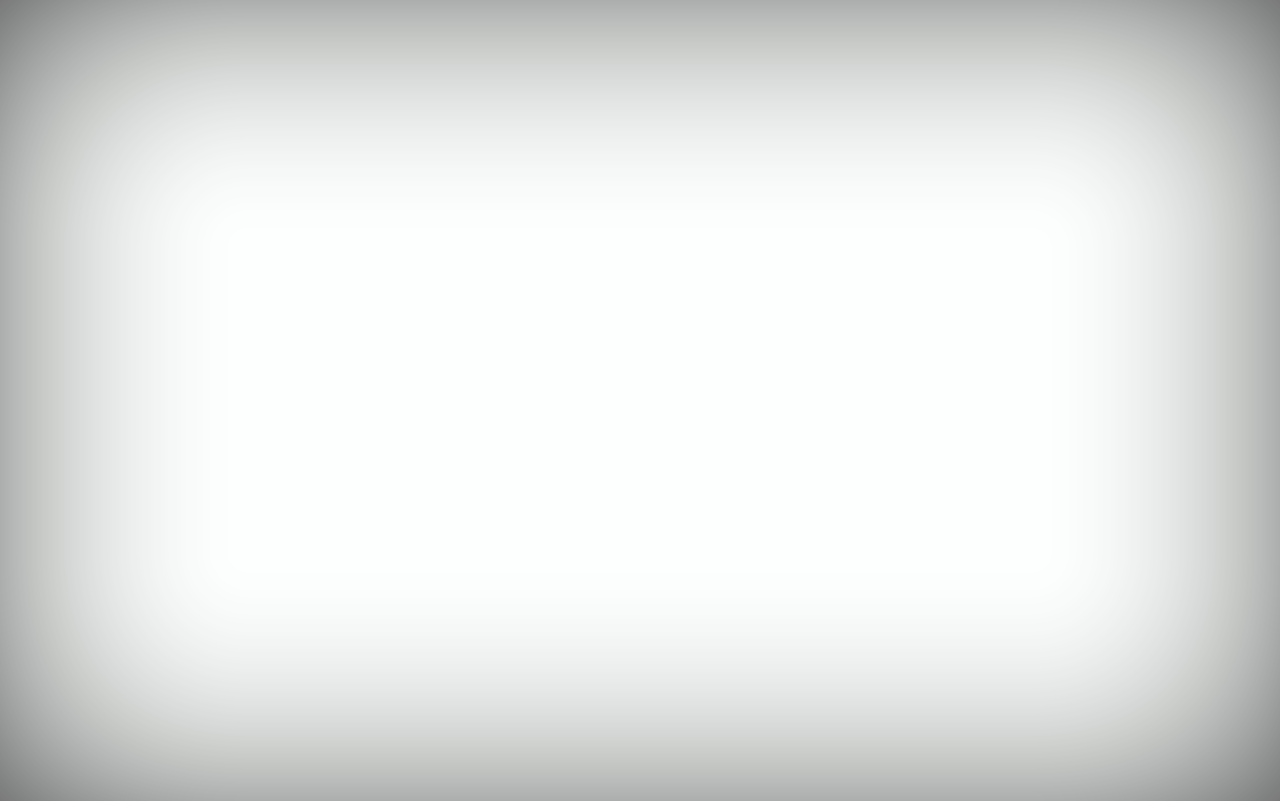
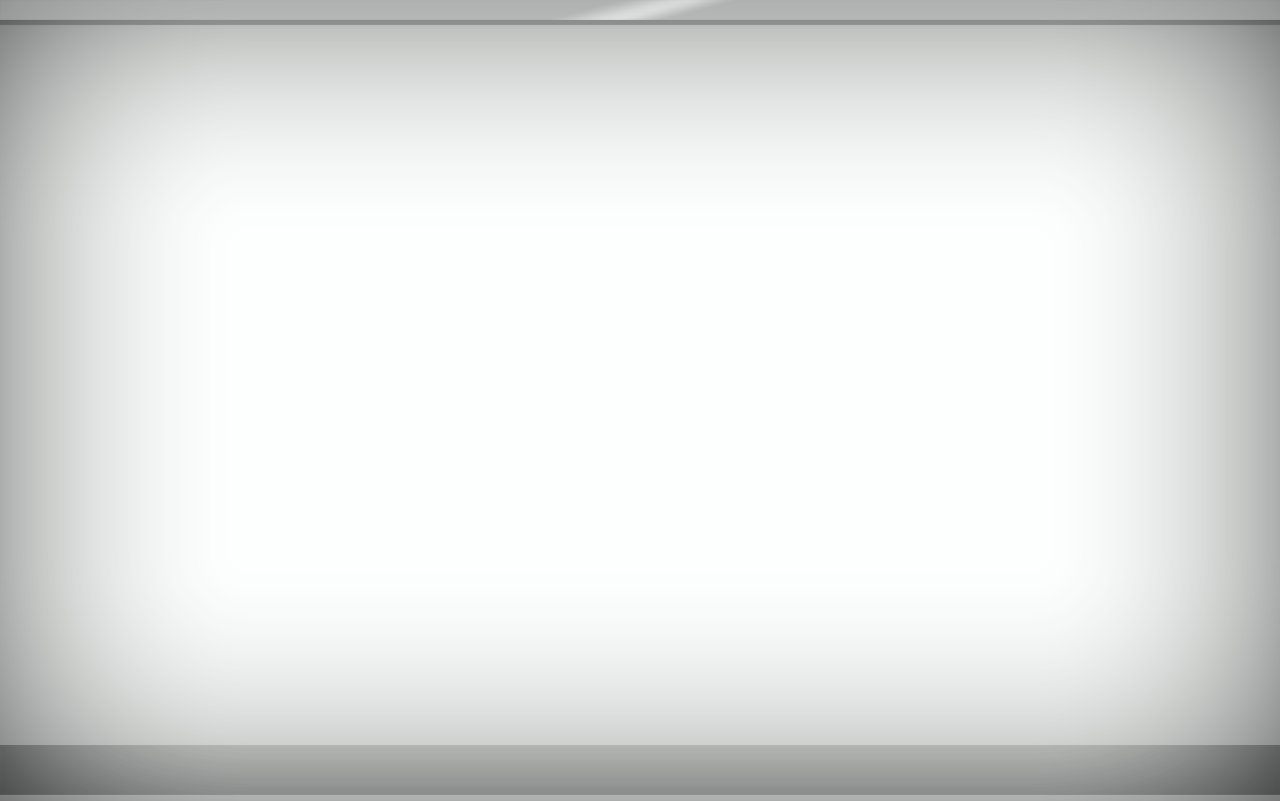
adjustments on 1280x800

Changed region(s): [[0.0, 0.9051, 1.0, 0.9988], [0.0, 0.0, 1.0, 0.0312]]

diff --git a/css/style1280x800.css b/css/style1280x800.css
@@ -642,12 +642,12 @@ a.next_button {
 /* FOOTER */
 
 #footer {
-    background: url("../images/sprite_root1280x800.png") no-repeat scroll 0 -391px #555554;
     bottom: 0;
     clear: left;
     color: #FFFFFF;
-    height: 42px;
-    position: absolute;
+    height: 27px;
+    position: relative;
+    top: 118px;
     width: 100%;
 }
 #footer img {
@@ -916,18 +916,18 @@ a#director_current,a#director:hover{background: url("../images/team_links.png") 
 /* Style for slider on footer */
  
 .slider {
-    background: url("../images/wishmodus_logo.png") no-repeat scroll 0 0 transparent;
+    background: url("../images/wishmodus_logo1280.png") no-repeat scroll 0 0 transparent;
     bottom: 0;
     float: left;
     height: 45px;
-    left: 90px;
+    left: 110px;
     list-style-type: none;
     margin: 0;
     padding-bottom: 0;
     padding-left: 10px;
     padding-top: 0;
     position: absolute;
-    width: 109px;}
+    width: 140px;}
 	
 a.wishmodus {
     color: transparent;
@@ -945,8 +945,8 @@ a.wishmodus {
     margin-right: 10px;
     overflow: hidden;
     position: relative;
-    top: 7px;
-    width: 109px;
+    top: 4px;
+    width: 136px;
 }
 
 

diff --git a/stylesheets/coda-slider-2.0_1280x800.css b/stylesheets/coda-slider-2.0_1280x800.css
@@ -18,7 +18,7 @@
 	.coda-slider, .coda-slider .panel { width: 1025px; } 
 	
 	/* Change margin and width of the slider (with dynamic arrows) */
-	.coda-slider-wrapper.arrows .coda-slider, .coda-slider-wrapper.arrows .coda-slider .panel { width: 1025px; }
+	.coda-slider-wrapper.arrows .coda-slider, .coda-slider-wrapper.arrows .coda-slider .panel { width: 1022px; }
 .coda-slider-wrapper.arrows .coda-slider {
     margin: 0 10px;
     top: 16px;
@@ -27,15 +27,17 @@
 	.coda-nav-left a, .coda-nav-right a { background: #000; color: #fff; padding: 5px; width: 100px }
 .coda-nav-left a {
     background: url("../images/sprite_mesa1280x800.png") repeat scroll -1684px 89px transparent;
+    left: 100px;
     position: relative;
     text-indent: -9999px;
-    top: 220px;
+    top: 270px;
 }
 .coda-nav-right a {
     background: url("../images/sprite_mesa1280x800.png") repeat scroll -1442px 89px transparent;
     position: relative;
     text-indent: -9999px;
-    top: 222px;
+    top: 270px;
+    right:100px;
 }	
 /* Tab nav */
 	.coda-nav ul li a.current { background: #39c }

diff --git a/css/home1280x800.css b/css/home1280x800.css
@@ -1,11 +1,8 @@
-html{background-attachment: fixed;
-    background-clip: border-box;
-    background-color: #FFFFFF;
+html {
     background-image: url("../images/background_index_1280.png");
     background-origin: padding-box;
-    background-position: center center;
     background-repeat: no-repeat;
-    
+    min-height: 800px;
 }
 
 a#home,a#home:hover {
@@ -14,12 +11,11 @@ a#home,a#home:hover {
 }
 
 .coda-slider-wrapper {
-    background: url("../images/sprite_mesa1280x800.png") no-repeat scroll 0 -377px transparent;
-    bottom: 50px;
+    bottom: -106px;
     clear: both;
     margin-bottom: -7px;
     overflow-x: auto;
     overflow-y: hidden;
-    position: absolute;
+    position: relative;
     z-index: 0;
 }

diff --git a/js/functions.js b/js/functions.js
@@ -1,6 +1,7 @@
 //alert("Width: " + screen.width);
 $(document).ready(function(){
 		if(screen.width<1600){deslocamento='90px';} else {deslocamento='138px';}
+		if(screen.width==1280){deslocamento='110px';};
 		//alert("Deslocamento= "+ deslocamento);
 	   
        //Full Box Sliding (Hidden to Visible)

diff --git a/css/company1280x800.css b/css/company1280x800.css
@@ -36,7 +36,6 @@ html{background-attachment: fixed;
 }
 
 #footer {
-    background: url("../images/sprite_root.png") no-repeat scroll 0 -391px #555554;
     bottom: 0;
     clear: left;
     color: #FFFFFF;
